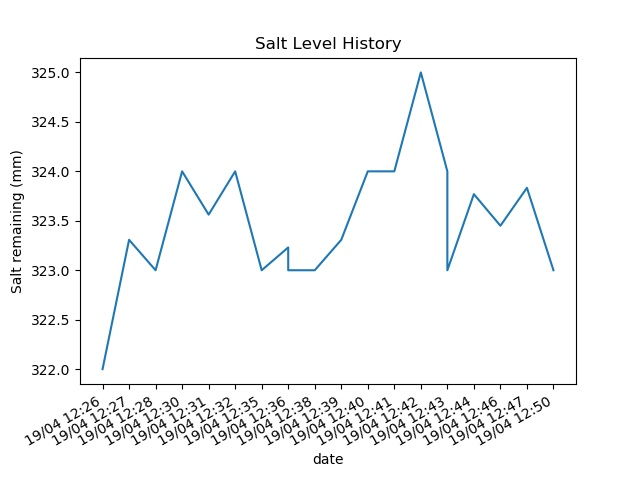
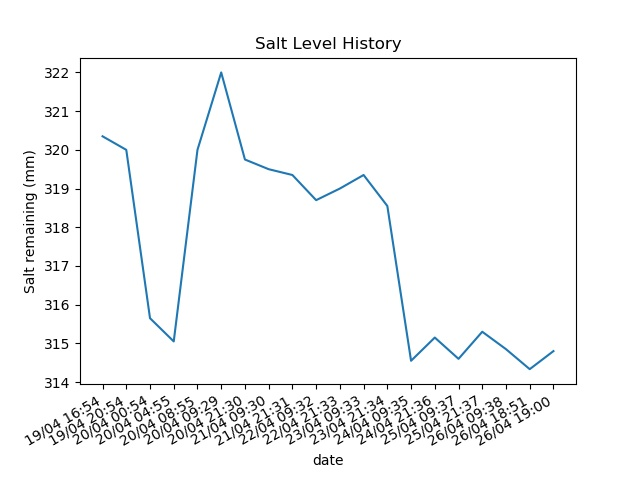
Updated to only measure on cetain hours.

diff --git a/minder.py b/minder.py
@@ -11,6 +11,7 @@ import telegram_if
 import led_strip
 import graphing
 
+
 # Standard time string
 def std_time():
     return datetime.datetime.now().strftime("%a %d/%m/%y %H:%M")
@@ -66,9 +67,21 @@ class WaterSoftenerMinder(threading.Thread):
 
         # hours at which to send a message to Telegram.  Don't send message while likely to be asleep.
         self.hours_to_message = [7, 20]
+        self.hours_to_measure = [6]
         self.last_msg_hour = None  # last message sent - if None, it indicates the program is just starting.
 
+        self.long_term_salt_data = [] # initialise the long term data with empty array - gets read from file.
         self.long_term_data_filename = 'long_term_salt_data.json'
+
+        # Get the existing data from the file.
+        try:
+            with open(self.long_term_data_filename, 'r') as salt_data_file:
+                self.long_term_salt_data = json.load(salt_data_file)
+        except OSError:
+            print("failure to read file {}".format(OSError.filename))
+
+        # Create the plotter - plot up to 20 samples.
+        self.salt_plotter = graphing.SaltPlotter(20)
 
         # check on the time sync.  If not synched yet, then wait and break out of the loop when detected or max loop
         # reached
@@ -150,24 +163,24 @@ class WaterSoftenerMinder(threading.Thread):
 
                 self.outgoing_telegram_queue.put_nowait(out_telegram_item)
 
+    def regular_measurement(self, curr_time):
+        print("WSM: {}" .format(self.salt_str))
+        data_item = {"datetime": curr_time.strftime("%d/%m %H:%M"), "salt_level": self.remaining_salt}
+        self.long_term_salt_data.append(data_item)
+
+        # Update the plot and write latest data to the file.
+        if len(self.long_term_salt_data) >= 5:
+            self.salt_plotter.plot_save(self.long_term_salt_data, "salt_plot.jpg")
+
+            # Write the latest data to file.  Only save last 200 results
+            with open(self.long_term_data_filename, 'w') as salt_data_file:
+                json.dump(self.long_term_salt_data[-200:], salt_data_file)
+
     # Main loop that manages the work flow.
     def run(self):
-        # loop counter to allow to respond to messages and do other work, but not constantly print to terminal.
-        loop_count = 0
         last_msg_hour = None  # initialising this so we get one status message sent at the start.
+        last_measure_hour = None
         time.sleep(5)  # wait a few seconds to build up some measurements.
-
-        long_term_salt_data = []
-
-        # Create the plotter - plot up to 20 samples.
-        salt_plotter = graphing.SaltPlotter(20)
-
-        # Write the latest data to file.
-        try:
-            with open(self.long_term_data_filename, 'r') as salt_data_file:
-                long_term_salt_data = json.load(salt_data_file)
-        except OSError:
-            print("failure to read file {}".format(OSError.filename))
 
         # Main loop.
         while True:
@@ -176,24 +189,18 @@ class WaterSoftenerMinder(threading.Thread):
             # Get the salt string, which provides the status of the hopper.
             self.create_salt_status_string()
 
+            # Check to see if there is any commend to respond to - check incoming
             self.respond_to_command()
-
-            # Only print out every once in a while - just filling up screen and logs.
-            if loop_count % (360 * 4) == 0:
-                print("WSM: {}" .format(self.salt_str))
-                data_item = {"datetime": curr_time.strftime("%d/%m %H:%M"), "salt_level": self.remaining_salt}
-                long_term_salt_data.append(data_item)
-
-                # Update the plot and write latest data to the file.
-                if len(long_term_salt_data) >= 5:
-                    salt_plotter.plot_save(long_term_salt_data, "salt_plot.jpg")
-
-                    # Write the latest data to file.
-                    with open(self.long_term_data_filename, 'w') as salt_data_file:
-                        json.dump(long_term_salt_data, salt_data_file)
 
             # This goes to LED string for handling.
             self.led_remaining_salt_ratio_queue.put_nowait(self.remaining_salt_ratio)
+
+            # Restricts the time at which measurements are taken.  The last_measurement_hour bit makes sure
+            # only one measurement gets done in that one hour.
+            if curr_time.hour in self.hours_to_measure and curr_time.hour is not last_measure_hour:
+                # Take the regular measurement
+                self.regular_measurement(curr_time)
+                last_measure_hour = curr_time.hour
 
             # Restricts the time at which measurements are announced to telegram.  The last_msg_hour bit makes sure
             # only one message goes out in that one hour.
@@ -207,7 +214,6 @@ class WaterSoftenerMinder(threading.Thread):
                 last_msg_hour = curr_time.hour
 
             time.sleep(10)
-            loop_count += 1
 
 
 # Starting up the main object that manages everything.
